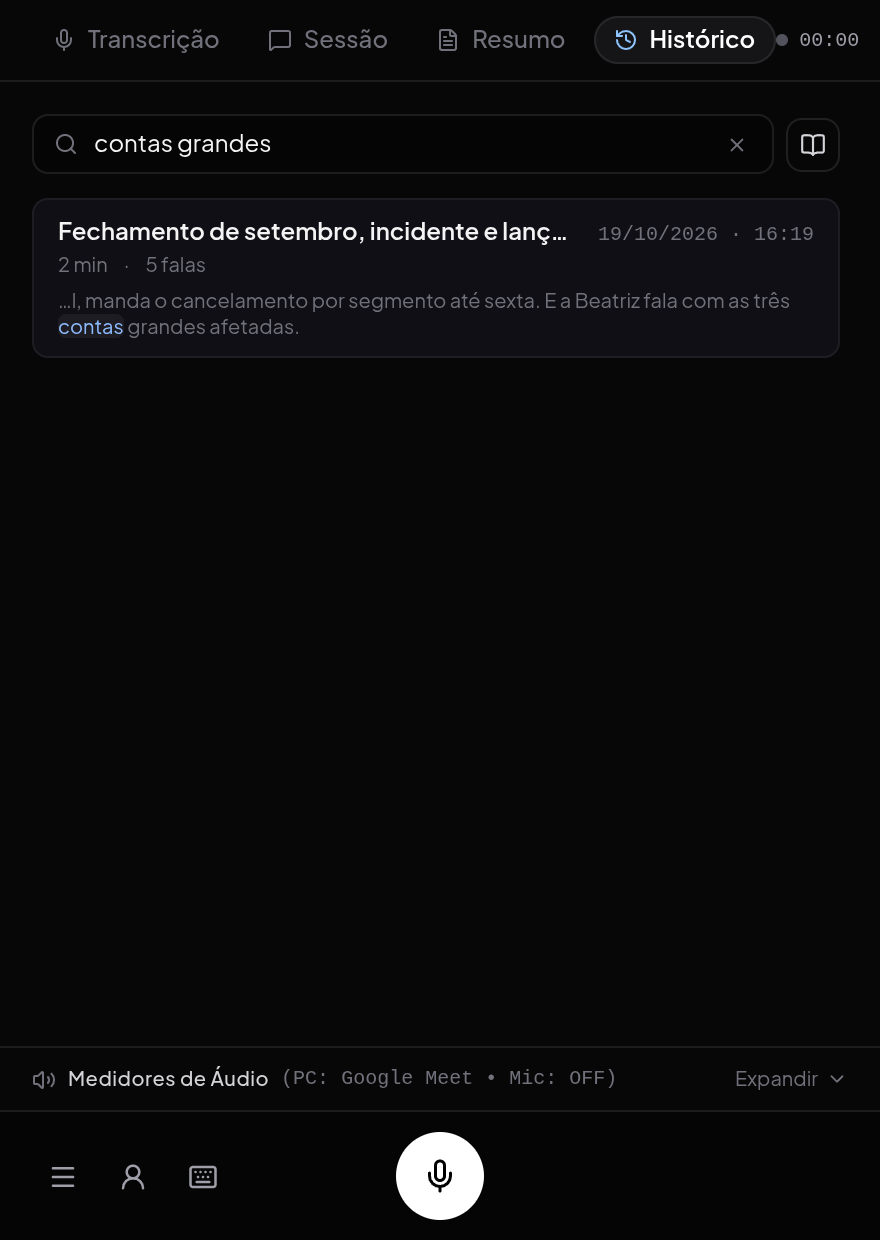
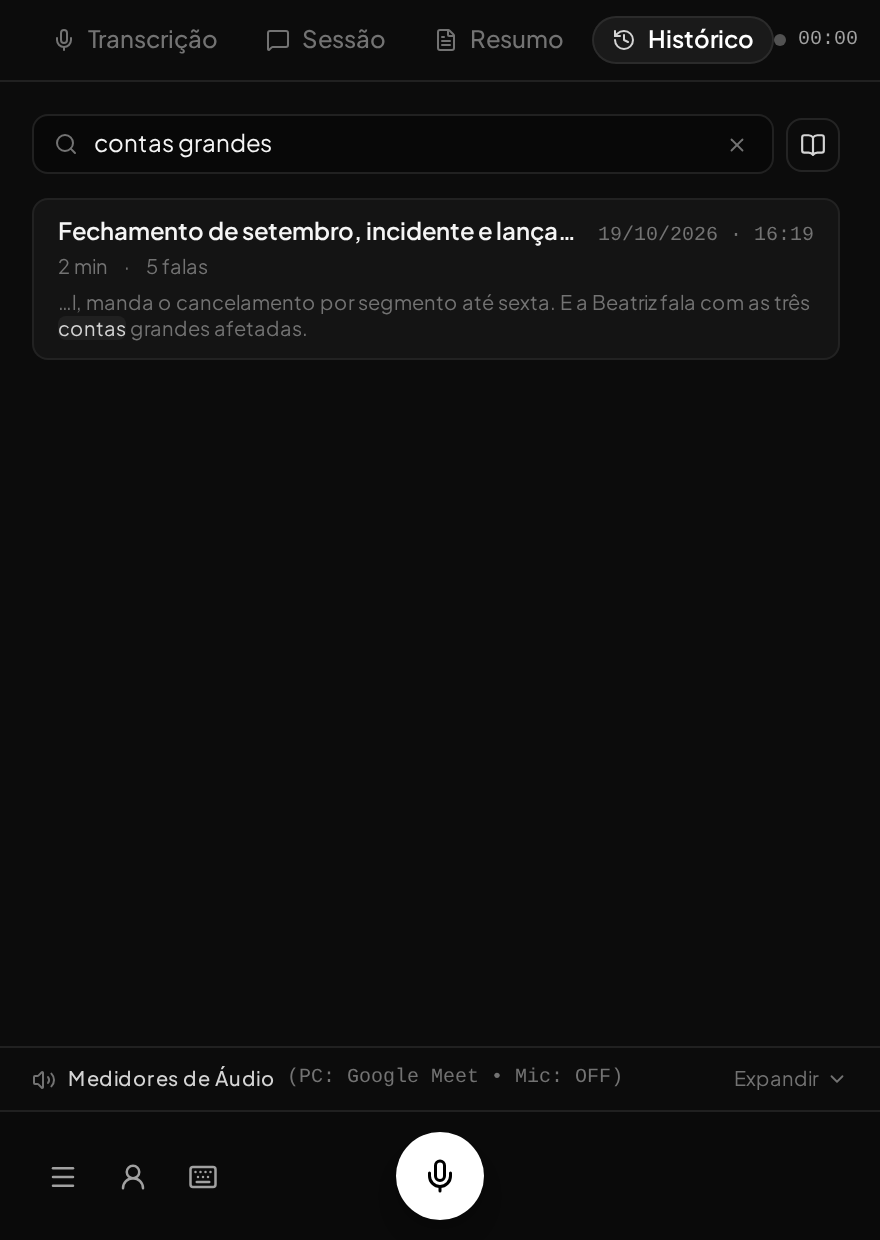
Refresh screenshots with the monochrome theme

diff --git a/docs/usage.md b/docs/usage.md
@@ -43,7 +43,7 @@ O [LM Studio](https://lmstudio.ai) também é detectado: com o servidor local li
 
 ## Meu contexto
 
-O ícone de pessoa na barra inferior abre o editor em tela cheia. Um ponto azul no ícone indica que o perfil ainda está vazio. Preencha apenas fatos que você consiga sustentar na conversa; campos vazios são ignorados.
+O ícone de pessoa na barra inferior abre o editor em tela cheia. Um ponto claro no ícone indica que o perfil ainda está vazio. Preencha apenas fatos que você consiga sustentar na conversa; campos vazios são ignorados.
 
 | Aba | Campos |
 | --- | --- |
@@ -104,7 +104,7 @@ Num pacote gerado com o cliente embutido (veja o [guia de desenvolvimento](devel
 
 **Conectar conta Google** abre o login no navegador; ao autorizar, a página diz para voltar ao app. O Sidenote pede só leitura dos eventos da agenda, leitura dos Docs e acesso aos arquivos que ele mesmo criar no Drive. As credenciais ficam em `google.json`, ao lado do perfil, legíveis só pelo seu usuário, e a interface nunca recebe os tokens. **Desconectar** apaga os tokens e revoga o acesso no Google. Também dá para passar o cliente por `SIDENOTE_GOOGLE_CLIENT_ID` e `SIDENOTE_GOOGLE_CLIENT_SECRET`.
 
-**Agenda.** A tela lista os eventos de agora até o fim de amanhã (os recusados ficam de fora). **Usar nesta reunião** coloca o evento no contexto da sessão: título, horário, organizador, participantes, descrição e o texto de até 2 Google Docs anexados ao evento (uma pauta, por exemplo) vão junto com cada sugestão, mensagem direta e resumo. Quando há uma reunião na agenda acontecendo agora (ou começando em 10 minutos), uma faixa azul acima da transcrição oferece **Usar como contexto**; com um evento escolhido, a mesma faixa mostra qual é e o × o tira. **Nova sessão** guarda o evento na reunião do histórico e limpa a escolha para a próxima.
+**Agenda.** A tela lista os eventos de agora até o fim de amanhã (os recusados ficam de fora). **Usar nesta reunião** coloca o evento no contexto da sessão: título, horário, organizador, participantes, descrição e o texto de até 2 Google Docs anexados ao evento (uma pauta, por exemplo) vão junto com cada sugestão, mensagem direta e resumo. Quando há uma reunião na agenda acontecendo agora (ou começando em 10 minutos), uma faixa acima da transcrição oferece **Usar como contexto**; com um evento escolhido, a mesma faixa mostra qual é e o × o tira. **Nova sessão** guarda o evento na reunião do histórico e limpa a escolha para a próxima.
 
 **Docs.** No **Resumo**, o botão de upload cria um Google Docs com o resumo e a transcrição da sessão e mostra o link. No **Histórico**, o mesmo botão cria o documento da reunião uma vez e depois passa a abri-lo. Em ⚙, **Salvar reuniões terminadas no Google Docs** faz isso sozinho ao fim de cada reunião. Para importar um Google Docs no perfil, veja [Importar currículo e vaga](#importar-currículo-e-vaga).
 

diff --git a/README.md b/README.md
@@ -29,7 +29,7 @@ Copiloto desktop para reuniões. Ele ouve a chamada, transcreve enquanto as pess
 | :---: | :---: |
 | <img src="docs/screenshots/menu.png" width="260" alt="Menu com modelo, modo, reconhecimento de voz, notas e nova sessão"> | <img src="docs/screenshots/modelo.png" width="260" alt="Seleção de provedor e modelo"> |
 
-<sub>Capturas de uma reunião simulada: as falas foram geradas por TTS e tocadas como se fossem o áudio do Meet; empresa, pessoas, números e a vault são fictícios. A transcrição, as notas, as sugestões e o resumo saíram do app de verdade.</sub>
+<sub>Capturas de uma reunião simulada: as falas foram geradas por TTS e tocadas como se fossem o áudio do Meet; empresa, pessoas, números e a vault são fictícios. A transcrição, as notas, as sugestões e o resumo saíram do app de verdade; as telas foram refeitas com o tema atual a partir dessa mesma reunião.</sub>
 
 ## Baixar
 
